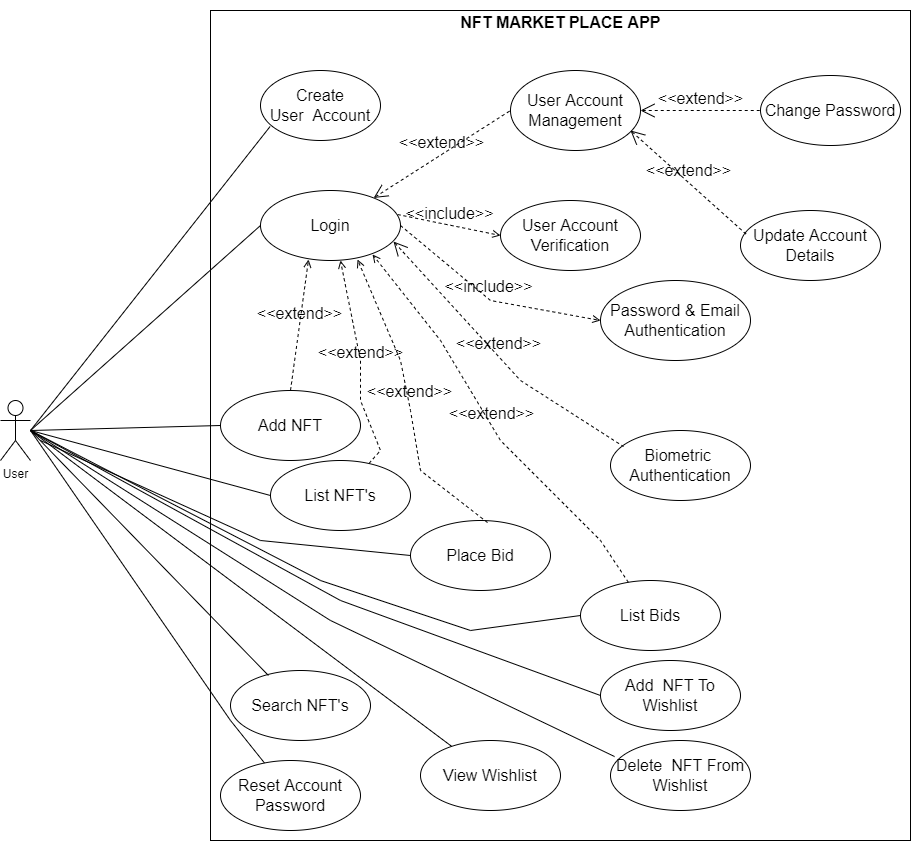
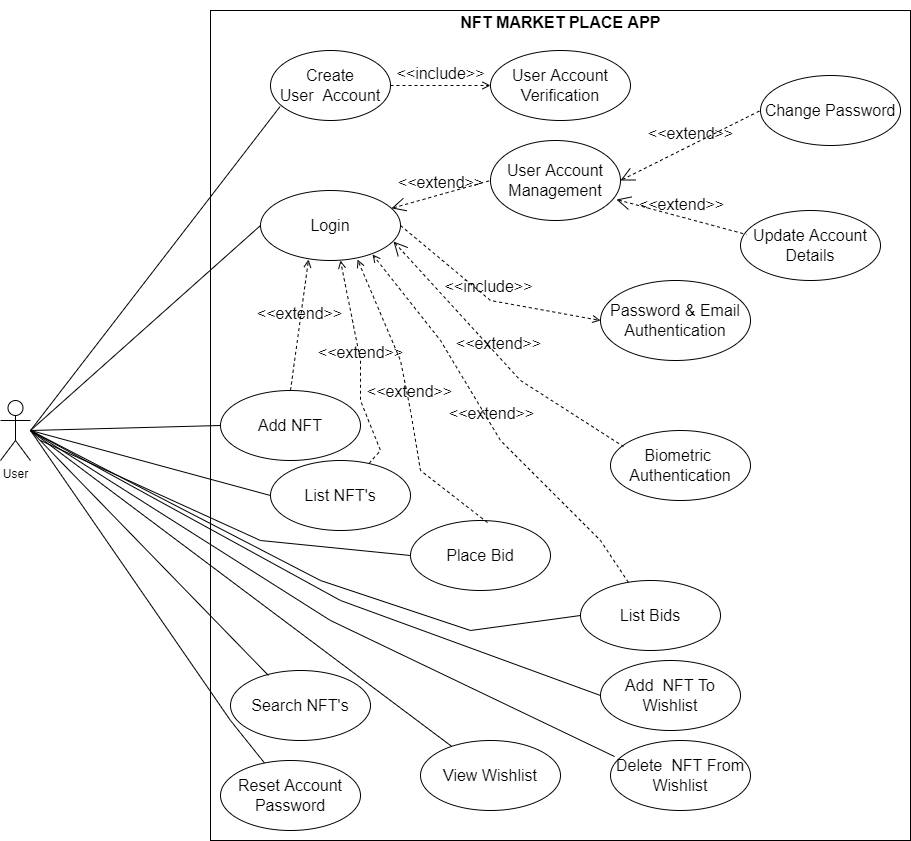
modified the use case diagram and the code input component

diff --git a/screens/OtpVerification.js b/screens/OtpVerification.js
@@ -1,0 +1,176 @@
+import React, {useState, useEffect} from 'react';
+import { StatusBar } from 'expo-status-bar';
+import KeyboardAvoidingWrapper from '../components/KeyboardAvoidingWrapper';
+import { StyledContainer, TopHalf, BottomHalf, PageTitle, InfoText, EmphasizeText, IconBg, StyledButton, ButtonText, Colors} from '../components/styles';
+import {Octicons,Ionicons} from '@expo/vector-icons';
+import CodeInputField from '../components/CodeInputField';
+import {ActivityIndicator} from 'react-native';
+import ResendTimer from '../components/ResendTimer';
+
+import VerificationModal from '../components/VerificationModal';
+
+const {brand, green, primary, lightGreen, gray} = Colors;
+
+const OtpVerification = () => {
+    const [code, setCode] = useState('');
+    //this will be a boolean which will be true whenever our input field is full
+    //pin ready can be true or false 
+    const [pinReady, setPinReady] = useState(false);
+
+    //verification button
+    const [verifying, setVerifying] = useState(false);
+
+    //preferred length of our otp code
+    const MAX_CODE_LENGTH = 4;
+
+    //modal
+    const [modalVisible, setModalVisible] = useState(false);
+    //determine whether the request succeeded or failed
+    const [verificationSuccessful, setVerificationSuccessful] = useState(false);
+
+    //store whatever message we receive from our server
+    const [requestMessage, setRequestMessage] = useState('');
+
+    //this state monitors the state of the resend system
+    const [resendingEmail, setResendingEmail] = useState(false);
+    //the resend status has the following values: resend, sent, failed
+    const [resendStatus, setResendStatus] = useState('Resend');
+
+    //resend timer
+    const [timeLeft,setTimeLeft] = useState(null);
+
+    //target time. This is the maximum number of seconds of our timer
+    const [targetTime,setTargetTime] = useState(null);
+
+    //active resend will be true whenever the system is ready to allow a resend request
+    const [activeResend,setActiveResend] = useState(false);
+
+    //the timer will be triggered at an interval and we use this variable to monitor that
+    let resendTimerInterval;
+
+    //function to calculate the time left in the timer
+    //function accepts a final time parameter. This is a value in milli seconds reffereing to when the timer is supposed to end in the future
+    const calculateTimeLeft = (finalTime) => { 
+        //first we do is to find the difference
+        const difference = finalTime - +new Date(); //the + before the new keyword is used to convert the date to a number. It is a shorthand for the syntax 
+        if(difference >= 0 ) {
+            setTimeLeft(Math.round(difference/1000));
+        } else {
+            //there is no time to wait
+            setTimeLeft(null);
+            //clear the current interval
+            clearInterval(resendTimerInterval);
+            setActiveResend(true);//use to activate the resend button
+        }
+
+    }
+
+    //trigger the timer function
+    //this triggers the time to work
+    const triggerTimer = (targetTimeInSeconds = 30) => { 
+        setTargetTime(targetTimeInSeconds);
+        //disallow recent request
+        setActiveResend(false);
+        //calculate our final time
+        const finalTime = +new Date() + (targetTimeInSeconds * 1000);
+
+        resendTimerInterval = setInterval(() => {
+            calculateTimeLeft(finalTime),1000; //this means our function should be called every second 
+    });
+    }
+
+    useEffect(() => { 
+        triggerTimer();
+
+        //to prevent memory leaks, once the component unmounts, we clear the interval
+        return () => { 
+            clearInterval(resendTimerInterval);
+        }
+    }, []);
+ 
+
+    //function to submit the otp for verification
+    const submitOTPVerification = async () => {
+
+    }
+
+    //create a resend email async function
+    const resendEmail = async () => { 
+        //set the resend status to sending
+        setResendStatus('Sending');
+        //set the resending email to true
+        setResendingEmail(true);
+    }
+
+    //persist login after verification
+    const persistLoginAfterOTPVerification = async () => { 
+
+    }
+
+  return (
+    <KeyboardAvoidingWrapper>
+        <StyledContainer style={{alignItems:'center'}}>
+            <TopHalf>
+                <IconBg>
+                    <StatusBar  style="dark"/>
+                    <Octicons name="lock" size={125} color={brand}/>
+                </IconBg>
+            </TopHalf>
+
+            <BottomHalf>
+                <PageTitle style={{fontSize:25}}>Account Verification </PageTitle>
+                <InfoText> Please enter the 4 digit code sent to 
+                    <EmphasizeText>
+                        {` [email redacted]`}
+                    </EmphasizeText>
+                </InfoText>
+
+                <CodeInputField 
+                    setPinReady={setPinReady}
+                    code={code}
+                    setCode={setCode}
+                    maxLength={MAX_CODE_LENGTH}
+                />
+                {!verifying && pinReady && (
+                    <StyledButton style={{backgroundColor:green, flexDirection:'row'}} onPress={submitOTPVerification}>
+                       <ButtonText>Verify </ButtonText>
+                       <Ionicons name="checkmark-circle" size={25} color={primary}/>
+                   </StyledButton>
+                )}
+
+                {!verifying && !pinReady && (
+                    <StyledButton disabled={true} style={{backgroundColor:lightGreen, flexDirection:'row'}}>
+                       <ButtonText style={{color:gray}}>Verify </ButtonText>
+                       <Ionicons name="checkmark-circle" size={25} color={gray}/>
+                   </StyledButton>
+                )}
+
+                {verifying  && (
+                    <StyledButton disabled={true} style={{backgroundColor:lightGreen, flexDirection:'row'}}>
+                       <ActivityIndicator size="large" color={primary}/>
+                   </StyledButton>
+                )}
+
+        <ResendTimer 
+            activeResend={activeResend}
+            resendStatus={resendStatus}
+            resendingEmail={resendingEmail}
+            timeLeft={timeLeft}
+            targetTime={targetTime}
+            resendEmail={resendEmail}
+        />
+
+            </BottomHalf>
+
+            <VerificationModal 
+                successful = {verificationSuccessful}
+                setModalVisible={setModalVisible}
+                modalVisible={modalVisible}
+                persistLoginAfterOTPVerification={persistLoginAfterOTPVerification}
+            />
+        </StyledContainer>   
+    </KeyboardAvoidingWrapper>
+  )
+}
+
+export default OtpVerification;

diff --git a/components/CodeInputField.js b/components/CodeInputField.js
@@ -1,0 +1,85 @@
+import {useState, useRef,useEffect} from 'react';
+import {Pressable, TextInput} from 'react-native';
+import { COLORS } from '../constants';
+
+const CodeInputField = ({setPinReady, code, setCode, maxLength}) => {
+    //create  an array with the length of the set max length and fill it with zeroes
+    const codeDigitsArray = new Array(maxLength).fill(0);
+    
+    //ref for text input
+    const textInputRef = useRef(null);
+
+    //monitoring input focus
+    const [inputContainerIsFocused, setInputContainerIsFocused] = useState(false);
+
+    //this function will be called when the input field loses focus
+    const handleOnBlur =  () => {
+        //when ever the input field is selected and focussed we will set this value to true
+        setInputContainerIsFocused(false);
+    }
+
+    useEffect(() => { 
+        //toggle submit button state
+        setPinReady(code.length === maxLength);
+
+        //clean up function: whenever  this component unmounts we will set the pin ready to false
+        return () => setPinReady(false);
+    
+        //run the use effect hook whenever the value of the code changes
+    }, [code]);
+
+    const handleOnPress =  () => {
+        setInputContainerIsFocused(true);
+
+        //trigger the focus function of the input
+        //this makes the input to be active and ready to accept input
+        textInputRef?.current?.focus();
+    }
+
+    const toCodeDigitInput =  (_value, index) => {
+        const emptyInputChar = ' ';
+        const digit = code[index] || emptyInputChar;
+
+        //formatting
+        //tells us if the digit is the first one
+        const isCurrentDigit = index === code.length;
+        //tells us if the digit is the last one
+        const isLastDigit = index === maxLength - 1;
+
+        //tells us if the code is full
+        const isCodeFull = code.length === maxLength;
+
+        //for a digit to be focussed it should be the current digit or is the last digit and the code is full
+        const isDigitFocussed = isCurrentDigit || (isLastDigit && isCodeFull);
+
+        const StyledCodeInput = inputContainerIsFocused && isDigitFocussed ?  (<View  style={{borderColor:COLORS.green, minWidth:'15%',borderWidth:2,borderRadius:5, padding:12}}/>) : (<View  style={{borderColor:COLORS.lightGreen, minWidth:'15%',borderWidth:2,borderRadius:5, padding:12}}/>);
+
+
+        return (
+            <StyledCodeInput key={index}>
+                <Text style={{fontSize:22,fontWeight:'bold', textAlign:'center', color:COLORS.brand}}>{digit}</Text>
+            </StyledCodeInput>
+        );
+    }
+
+  return (
+        <View style={{flex: 1, justifyContent:'center',alignItems: 'center', marginVertical: 30}}> 
+            <Pressable onPress={handleOnPress} style={{width:'70%',flexDirection:'row', justifyContent:'space-between'}}>
+                    {codeDigitsArray.map(toCodeDigitInput)}
+            </Pressable>
+         
+            <TextInput style={{position:'absolute', width:1, height:1, opacity:0}}   
+                ref={textInputRef}
+                value={code}
+                onChangeText={setCode}
+                onSubmitEditing={handleOnBlur}
+                keyboardType="number-pad"
+                returnKeyType="done"
+                textContentType="oneTimeCode"
+                maxLength={maxLength}
+            />
+        </View>
+  )
+}
+
+export default CodeInputField;

diff --git a/components/VerificationModal.js b/components/VerificationModal.js
@@ -1,0 +1,73 @@
+import { Modal } from 'react-native';
+import React from 'react';
+import { StatusBar } from 'expo-status-bar';
+import {PageTitle, InfoText, StyledButton, ButtonText, Colors, ModalView, ModalContainer} from './../components/styles';
+
+//destructure some of the colors
+const {primary, green, tertiary, red} = Colors;
+
+//icons
+import {Ionicons} from '@expo/vector-icons';
+
+const VerificationModal = ({modalVisible, setModalVisible,successful,requestMessage, persistLoginAfterOTPVerification}) => {
+  const buttonHandler = () => { 
+    if(successful) {
+        persistLoginAfterOTPVerification();
+    }
+    setModalVisible(false);
+
+  }
+  
+    return (
+   <Modal animationType='slide' visible={modalVisible} transparent={true}>
+        <ModalContainer>
+            {!successful && <FailContent buttonHandler={buttonHandler} errorMsg={requestMessage}/> }
+            {successful && <SuccessContent buttonHandler={buttonHandler}/> }
+        </ModalContainer>
+   </Modal>
+  )
+}
+
+
+//content for the modal
+const SuccessContent = ({buttonHandler}) => { 
+    return (
+        <ModalView>
+            <StatusBar style="dark"/>
+             <Ionicons name="checkmark-circle" size={100} color={green} />
+
+             <PageTitle style={{fontSize: 25, color:tertiary, marginBottom:10}}>Verified!</PageTitle>
+                <InfoText style={{color:tertiary, marginBottom: 15}}>
+                    You have succeefully verified your account. 😎
+                </InfoText>
+
+                <StyledButton style={{backgroundColor:green, flexDirection:'row'}} onPress={buttonHandler}>
+                    <ButtonText>Continue to App </ButtonText>
+                    <Ionicons name="arrow-forward-circle" size={25} color={primary} />
+                </StyledButton>
+
+        </ModalView>
+    );
+};
+
+const FailContent = ({errorMsg, buttonHandler}) => { 
+    return (
+        <ModalView>
+            <StatusBar style="dark"/>
+             <Ionicons name="close-circle" size={100} color={red} />
+
+             <PageTitle style={{fontSize: 25, color:tertiary, marginBottom:10}}>Failed!</PageTitle>
+                <InfoText style={{color:tertiary, marginBottom: 15}}>
+                    {`Oh Oh 😶! Account verification failed. ${errorMsg}`}
+                </InfoText>
+
+                <StyledButton style={{backgroundColor:red, flexDirection:'row'}} onPress={buttonHandler}>
+                    <ButtonText>Try Again </ButtonText>
+                    <Ionicons name="arrow-redo-circle" size={25} color={primary} />
+                </StyledButton>
+
+        </ModalView>
+    );
+};
+
+export default VerificationModal;

diff --git a/screens/OtpVerificationMsg.js b/screens/OtpVerificationMsg.js
@@ -13,7 +13,7 @@ import { COLORS, Constants } from "../constants";
 const StatusBarHeight = Constants.statusBarHeight;
 
 // API client
-import axios from './../api/axios';
+import axios from '../api/axios';
 
 
 const Verification = ({route, navigation}) => {